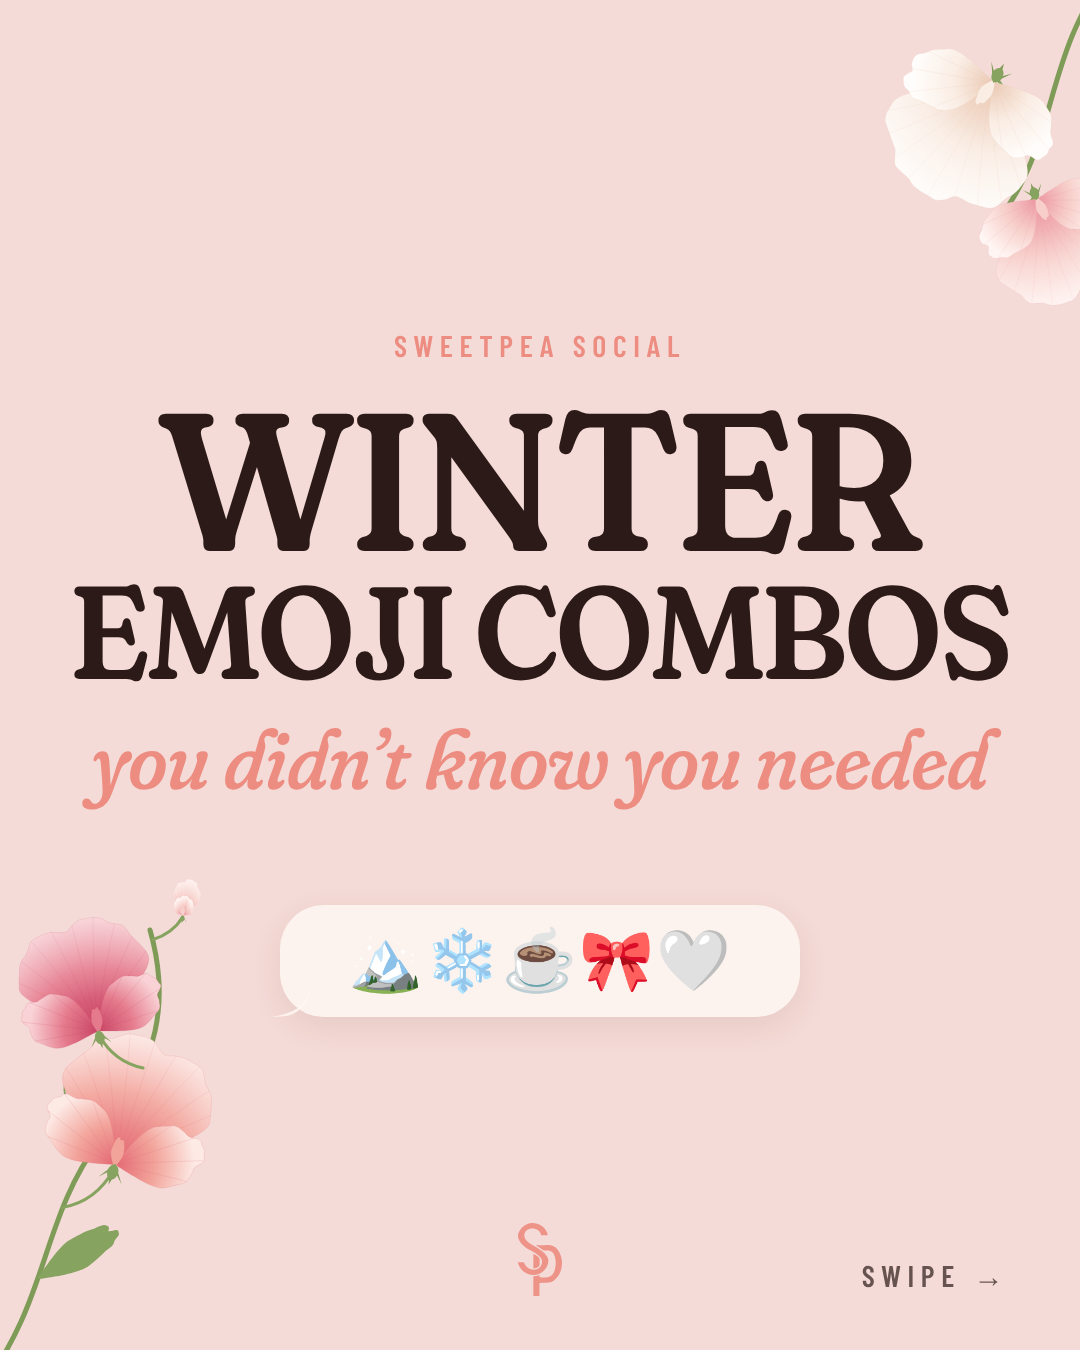
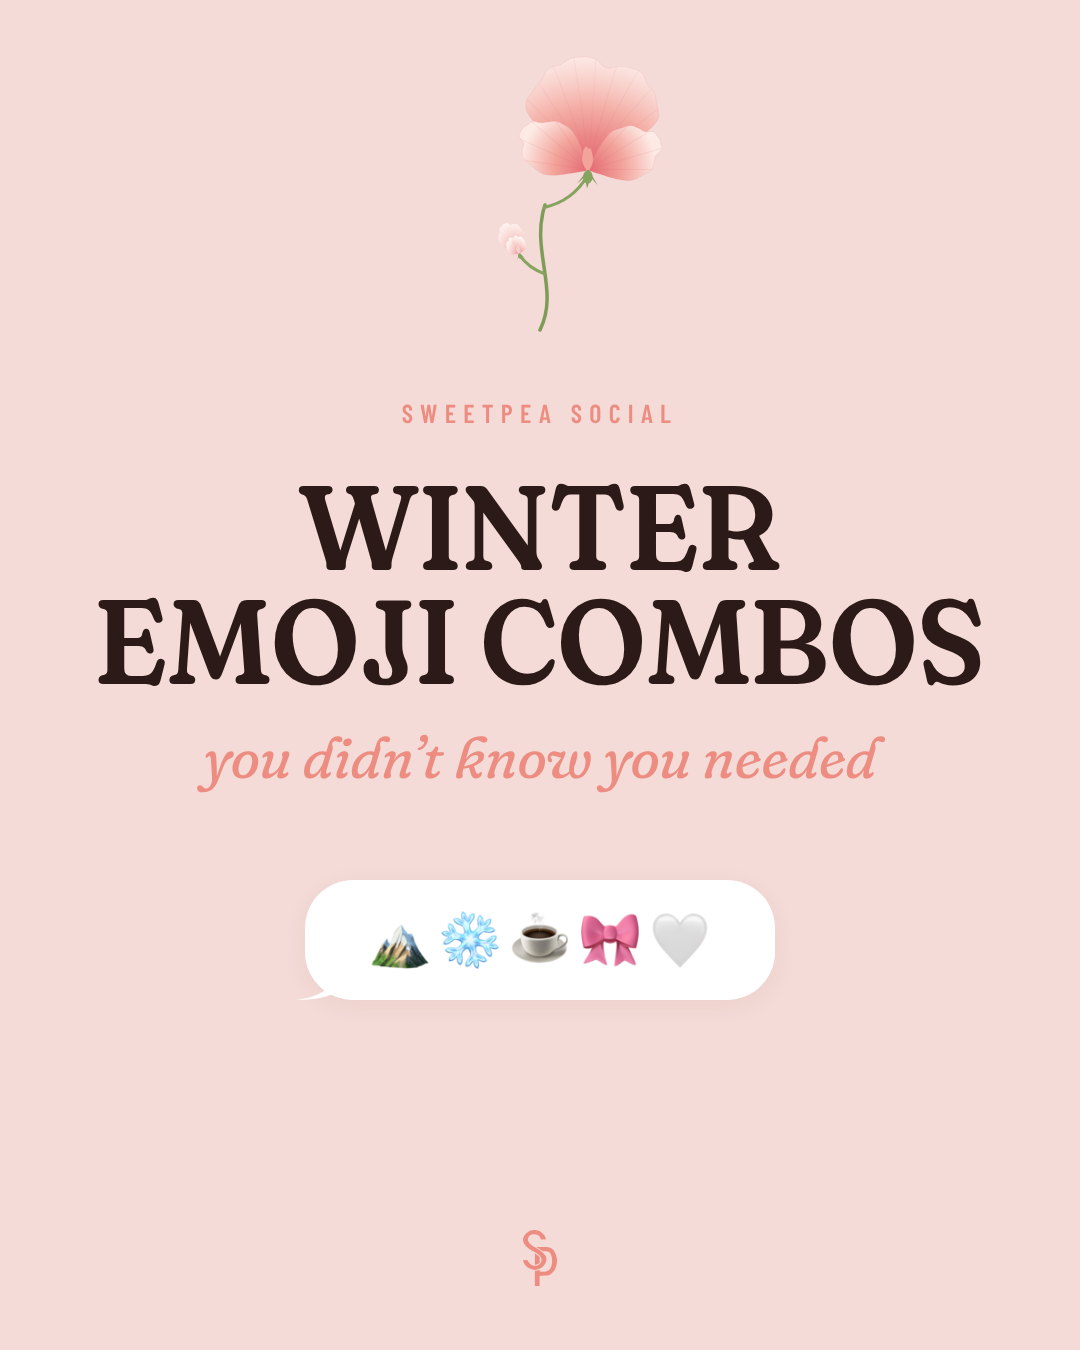
Sweetpea winter emoji carousel: minimal layout, Apple-style emoji
Single blush ground, white bubbles, one sweet pea on the cover. Emoji are
rendered as Apple-style images (from the emoji-datasource-apple package)
so the slides match what followers see on iPhone.

Claude-Session: https://claude.ai/code/session_011mtFDtVhAGS2A1ZP71JJk1

diff --git a/sweetpea/social/winter-emoji-combos/index.html b/sweetpea/social/winter-emoji-combos/index.html
@@ -7,51 +7,41 @@
 <link rel="preconnect" href="https://fonts.gstatic.com" crossorigin>
 <link href="https://fonts.googleapis.com/css2?family=Barlow+Condensed:wght@500;600&family=Fraunces:ital,opsz,wght,SOFT,WONK@0,9..144,400..800,100,1;1,9..144,400..800,100,1&display=swap" rel="stylesheet">
 <style>
-  /* Instagram portrait carousel, 1080 × 1350. Each .slide is exported as one PNG. */
-  :root {
-    --blush: #F4DBD7; --peach: #ED8C80; --gold: #E4AB55; --yellow: #F0E6AE;
-    --cherry: #F1614E; --cream: #FFF8F3; --ink: #2B1A17;
-    --emoji: "Apple Color Emoji", "Noto Color Emoji", sans-serif;
-  }
+  /* Instagram portrait carousel, 1080 × 1350. Each .slide is exported as one PNG.
+     Minimal: one blush ground, ink type, peach accents, white message bubbles, one sweet pea. */
+  :root { --blush: #F4DBD7; --peach: #ED8C80; --ink: #2B1A17; --white: #FFFFFF; }
   * { box-sizing: border-box; margin: 0; }
   body { background: #777; display: flex; flex-direction: column; gap: 40px; padding: 40px; width: max-content; }
-  .slide { width: 1080px; height: 1350px; position: relative; overflow: hidden; }
+  .slide { width: 1080px; height: 1350px; position: relative; overflow: hidden; background: var(--blush); color: var(--ink); }
   .slide > svg.deco { position: absolute; inset: 0; width: 100%; height: 100%; pointer-events: none; }
-  .accent { font: 600 30px/1 "Barlow Condensed", sans-serif; letter-spacing: .22em; text-transform: uppercase; }
-  .mark { position: absolute; left: 50%; bottom: 54px; translate: -50% 0; width: 44px; opacity: .9; }
+  .accent { font: 600 26px/1 "Barlow Condensed", sans-serif; letter-spacing: .28em; text-transform: uppercase; color: var(--peach); }
+  .mark { position: absolute; left: 50%; bottom: 64px; translate: -50% 0; width: 34px; }
 
-  /* Message bubble, like a sent text */
+  /* Message bubble, like a sent text. Emoji are swapped for Apple-style images by the script below. */
   .bubble {
-    position: relative; display: flex; justify-content: center; align-items: center; gap: 10px;
-    background: rgba(255, 248, 243, .82); border-radius: 44px; height: 112px;
-    font: 60px/1 var(--emoji); letter-spacing: 2px;
-    box-shadow: 0 10px 30px rgba(120, 50, 40, .10);
+    position: relative; display: flex; justify-content: center; align-items: center; gap: 12px;
+    background: var(--white); border-radius: 48px; height: 120px;
+    box-shadow: 0 6px 24px rgba(120, 50, 40, .06);
   }
   .bubble::after {
-    content: ""; position: absolute; left: -10px; bottom: 0; width: 40px; height: 34px;
-    background: inherit; border-bottom-right-radius: 30px;
-    clip-path: path("M40 0 C40 18 30 30 0 34 C22 34 34 30 40 26 Z");
+    content: ""; position: absolute; left: -9px; bottom: 0; width: 40px; height: 34px;
+    background: inherit; clip-path: path("M40 0 C40 18 30 30 0 34 C22 34 34 30 40 26 Z");
   }
+  .bubble img { width: 58px; height: 58px; }
 
   /* Slide 1 — cover */
-  .s1 { background: var(--blush); }
-  .s1 .title { position: absolute; top: 330px; left: 0; right: 0; text-align: center; color: var(--ink); }
-  .s1 .title .accent { color: var(--peach); margin-bottom: 34px; }
-  .s1 h1 { font: 600 196px/.88 "Fraunces", serif; font-variation-settings: "SOFT" 100, "WONK" 0; letter-spacing: -.01em; }
-  .s1 h1 span { display: block; font-size: 132px; margin-top: 8px; }
-  .s1 .sub { font: italic 500 84px/1 "Fraunces", serif; font-variation-settings: "SOFT" 100, "WONK" 1; color: var(--peach); margin-top: 26px; }
-  .s1 .bubble { position: absolute; left: 50%; translate: -50% 0; top: 905px; width: 520px; }
-  .s1 .swipe { position: absolute; right: 70px; bottom: 60px; color: var(--ink); opacity: .7; }
+  .s1 .title { position: absolute; top: 470px; left: 0; right: 0; text-align: center; }
+  .s1 h1 { font: 600 120px/.95 "Fraunces", serif; font-variation-settings: "SOFT" 100, "WONK" 0; letter-spacing: .01em; }
+  .s1 .sub { font: italic 400 58px/1 "Fraunces", serif; font-variation-settings: "SOFT" 100, "WONK" 1; color: var(--peach); margin-top: 30px; }
+  .s1 .bubble { position: absolute; left: 50%; translate: -50% 0; top: 880px; width: 470px; }
+  .s1 .accent.top { position: absolute; top: 400px; left: 0; right: 0; text-align: center; }
 
   /* Slides 2 & 3 — the combos */
-  .grid { position: absolute; left: 80px; right: 80px; top: 220px; display: grid; grid-template-columns: 1fr 1fr; gap: 44px 40px; }
-  .grid .bubble { font-size: 62px; height: 132px; border-radius: 52px; }
-  .head { position: absolute; top: 120px; left: 0; right: 0; text-align: center; }
-  .head h2 { font: italic 600 64px/1 "Fraunces", serif; font-variation-settings: "SOFT" 100, "WONK" 1; }
-  .s2 { background: var(--peach); color: var(--cream); }
-  .s3 { background: var(--yellow); color: var(--ink); }
-  .s3 .bubble { background: rgba(255, 252, 248, .9); }
-  .foot { position: absolute; left: 0; right: 0; bottom: 150px; text-align: center; }
+  .head { position: absolute; top: 130px; left: 0; right: 0; text-align: center; }
+  .grid { position: absolute; left: 100px; right: 100px; top: 230px; display: grid; grid-template-columns: 1fr 1fr; gap: 44px 44px; }
+  .grid .bubble { height: 124px; }
+  .grid .bubble img { width: 54px; height: 54px; }
+  .foot { position: absolute; left: 0; right: 0; bottom: 185px; text-align: center; font: italic 400 48px/1 "Fraunces", serif; font-variation-settings: "SOFT" 100, "WONK" 1; }
 </style>
 </head>
 <body>
@@ -59,19 +49,17 @@
   <!-- 1. Cover -->
   <section class="slide s1" id="slide-1">
     <svg class="deco" viewBox="0 0 1080 1350" id="deco-1"></svg>
+    <p class="accent top">Sweetpea Social</p>
     <div class="title">
-      <p class="accent">Sweetpea Social</p>
-      <h1>WINTER<span>EMOJI COMBOS</span></h1>
+      <h1>WINTER<br>EMOJI COMBOS</h1>
       <p class="sub">you didn’t know you needed</p>
     </div>
     <div class="bubble">🏔❄☕🎀🤍</div>
-    <p class="accent swipe">Swipe →</p>
     <img class="mark" src="../../assets/initials-peach.svg" alt="">
   </section>
 
   <!-- 2. Combos -->
   <section class="slide s2" id="slide-2">
-    <svg class="deco" viewBox="0 0 1080 1350" id="deco-2"></svg>
     <div class="head"><p class="accent">Copy · paste · post</p></div>
     <div class="grid">
       <div class="bubble">⛷🏔☕🤍</div>
@@ -85,13 +73,12 @@
       <div class="bubble">🏂❄🎧🍵</div>
       <div class="bubble">🌙🛁🕯🤍</div>
     </div>
-    <img class="mark" src="../../assets/initials-blush.svg" alt="">
+    <img class="mark" src="../../assets/initials-peach.svg" alt="">
   </section>
 
-  <!-- 3. More combos + CTA -->
+  <!-- 3. More combos + question -->
   <section class="slide s3" id="slide-3">
-    <svg class="deco" viewBox="0 0 1080 1350" id="deco-3"></svg>
-    <div class="head"><p class="accent" style="color: var(--peach)">Holiday edition</p></div>
+    <div class="head"><p class="accent">Holiday edition</p></div>
     <div class="grid">
       <div class="bubble">🎄✨🎁🤍</div>
       <div class="bubble">🏕🔥🌌⭐</div>
@@ -104,47 +91,34 @@
       <div class="bubble">📝🎅🍪🥛</div>
       <div class="bubble">🥂🎆🎉🌙</div>
     </div>
-    <div class="foot"><h2 style="font: italic 600 58px/1 'Fraunces', serif; font-variation-settings: 'SOFT' 100, 'WONK' 1;">Which one’s your vibe?</h2></div>
+    <p class="foot">Which one’s your vibe?</p>
     <img class="mark" src="../../assets/initials-peach.svg" alt="">
   </section>
 
   <script src="../sweetpea-flower.js"></script>
   <script>
-    const S = window.SweetPea;
-    // Cover: a sprig climbing in from the bottom left, and one dipping in from the top right.
-    S.sprig(document.getElementById('deco-1'), {
-      stem: 'M-20 1390 C50 1300 40 1220 100 1140 S170 1000 150 930',
-      leaves: [[.25, 1]], tendrils: [[.55, -1]],
+    // Swap each emoji for its Apple-style image (files in ../emoji, named by code points without FE0F).
+    const seg = new Intl.Segmenter('en', { granularity: 'grapheme' });
+    document.querySelectorAll('.bubble').forEach(b => {
+      const chars = [...seg.segment(b.textContent.trim())].map(s => s.segment);
+      b.textContent = '';
+      chars.forEach(ch => {
+        const code = [...ch].map(c => c.codePointAt(0).toString(16)).filter(c => c !== 'fe0f').join('-');
+        const img = document.createElement('img');
+        img.src = `../emoji/${code}.png`;
+        img.alt = ch;
+        b.appendChild(img);
+      });
+    });
+
+    // One quiet sweet pea sprig on the cover.
+    window.SweetPea.sprig(document.getElementById('deco-1'), {
+      stem: 'M540 330 C560 290 530 250 545 205',
+      width: 3.5,
       flowers: [
-        { at: .4, side: 1, size: 1.1, scheme: 'peach', tilt: 18, seed: 1 },
-        { at: .72, side: -1, size: .95, scheme: 'berry', tilt: -14, seed: 7 },
-        { at: .98, side: 1, size: .65, scheme: 'blush', tilt: 6, seed: 4, open: .35 }
+        { at: .98, side: 1, size: .95, scheme: 'peach', tilt: 4, seed: 1 },
+        { at: .45, side: -1, size: .55, scheme: 'blush', tilt: -20, seed: 4, open: .4 }
       ]
-    });
-    S.sprig(document.getElementById('deco-1'), {
-      stem: 'M1110 -30 C1040 60 1060 150 990 230',
-      flowers: [
-        { at: .55, side: -1, size: 1.1, scheme: 'cream', tilt: -150, seed: 2 },
-        { at: .98, side: 1, size: .9, scheme: 'blush', tilt: 160, seed: 5 }
-      ]
-    });
-    // Slide 2: flowers peeking from the bottom corners.
-    S.sprig(document.getElementById('deco-2'), {
-      stem: 'M1100 1380 C1020 1300 1050 1240 990 1180',
-      flowers: [{ at: .6, side: -1, size: 1.15, scheme: 'blush', tilt: -20, seed: 3 }, { at: 1, side: 1, size: .8, scheme: 'cream', tilt: 10, seed: 6, open: .5 }]
-    });
-    S.sprig(document.getElementById('deco-2'), {
-      stem: 'M-30 1390 C40 1320 20 1270 80 1215',
-      flowers: [{ at: .9, side: 1, size: 1, scheme: 'peach', tilt: 25, seed: 8 }]
-    });
-    // Slide 3: a sprig from the top left.
-    S.sprig(document.getElementById('deco-3'), {
-      stem: 'M-30 -30 C40 50 30 110 110 170',
-      flowers: [{ at: .6, side: 1, size: 1.1, scheme: 'peach', tilt: 160, seed: 9 }, { at: 1, side: -1, size: .85, scheme: 'berry', tilt: -170, seed: 2, open: .6 }]
-    });
-    S.sprig(document.getElementById('deco-3'), {
-      stem: 'M1110 1380 C1040 1310 1060 1250 1000 1190',
-      flowers: [{ at: .85, side: -1, size: 1.05, scheme: 'blush', tilt: -15, seed: 4 }]
     });
   </script>
 </body>
